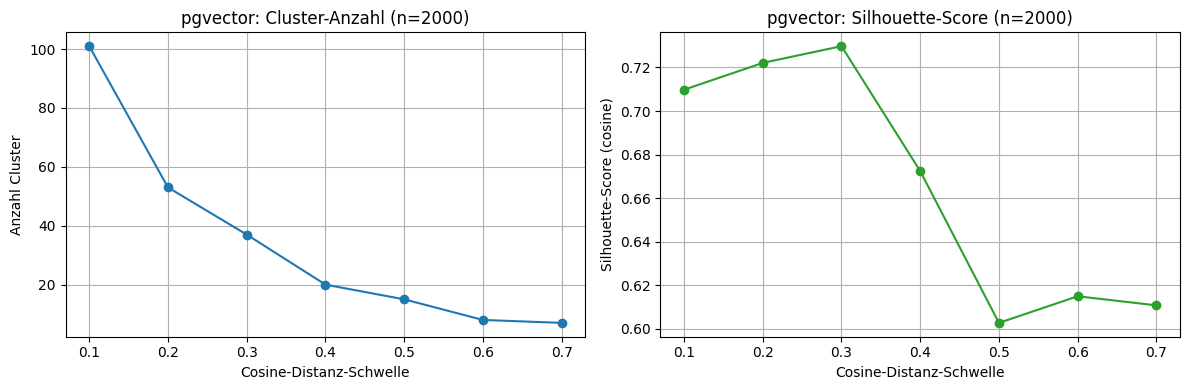
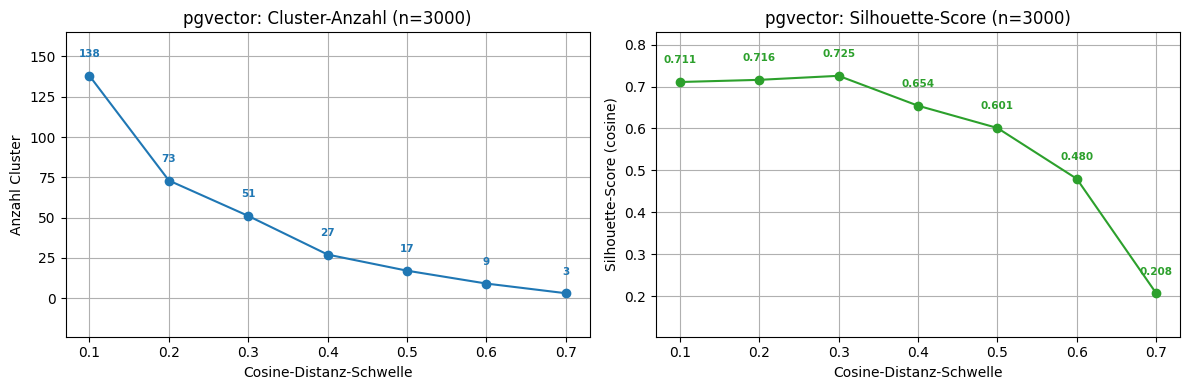
update pgvector diagram

diff --git a/content/05_Evaluation.tex b/content/05_Evaluation.tex
@@ -454,7 +454,7 @@ gesteuert: \texttt{PGVECTOR\_COSINE\_DISTANCE} (im Folgenden
 \texttt{THRESHOLD}). Der Parameter wird über einen Parameterdurchlauf untersucht.
 
 \paragraph{Aufbau des Parameterdurchlaufs.}
-Für \texttt{THRESHOLD} wird der Bereich
+Für \texttt{THRESHOLD} wird der 
 $\{0{,}1, 0{,}2, 0{,}3, 0{,}4, 0{,}5, 0{,}6, 0{,}7\}$ durchlaufen. Um ein
 realistisches Szenario nachzubilden, wird der Durchlauf auf einer Stichprobe von
 $n = 2\,000$ Lognachrichten begrenzt, da im produktiven Einsatz nicht alle